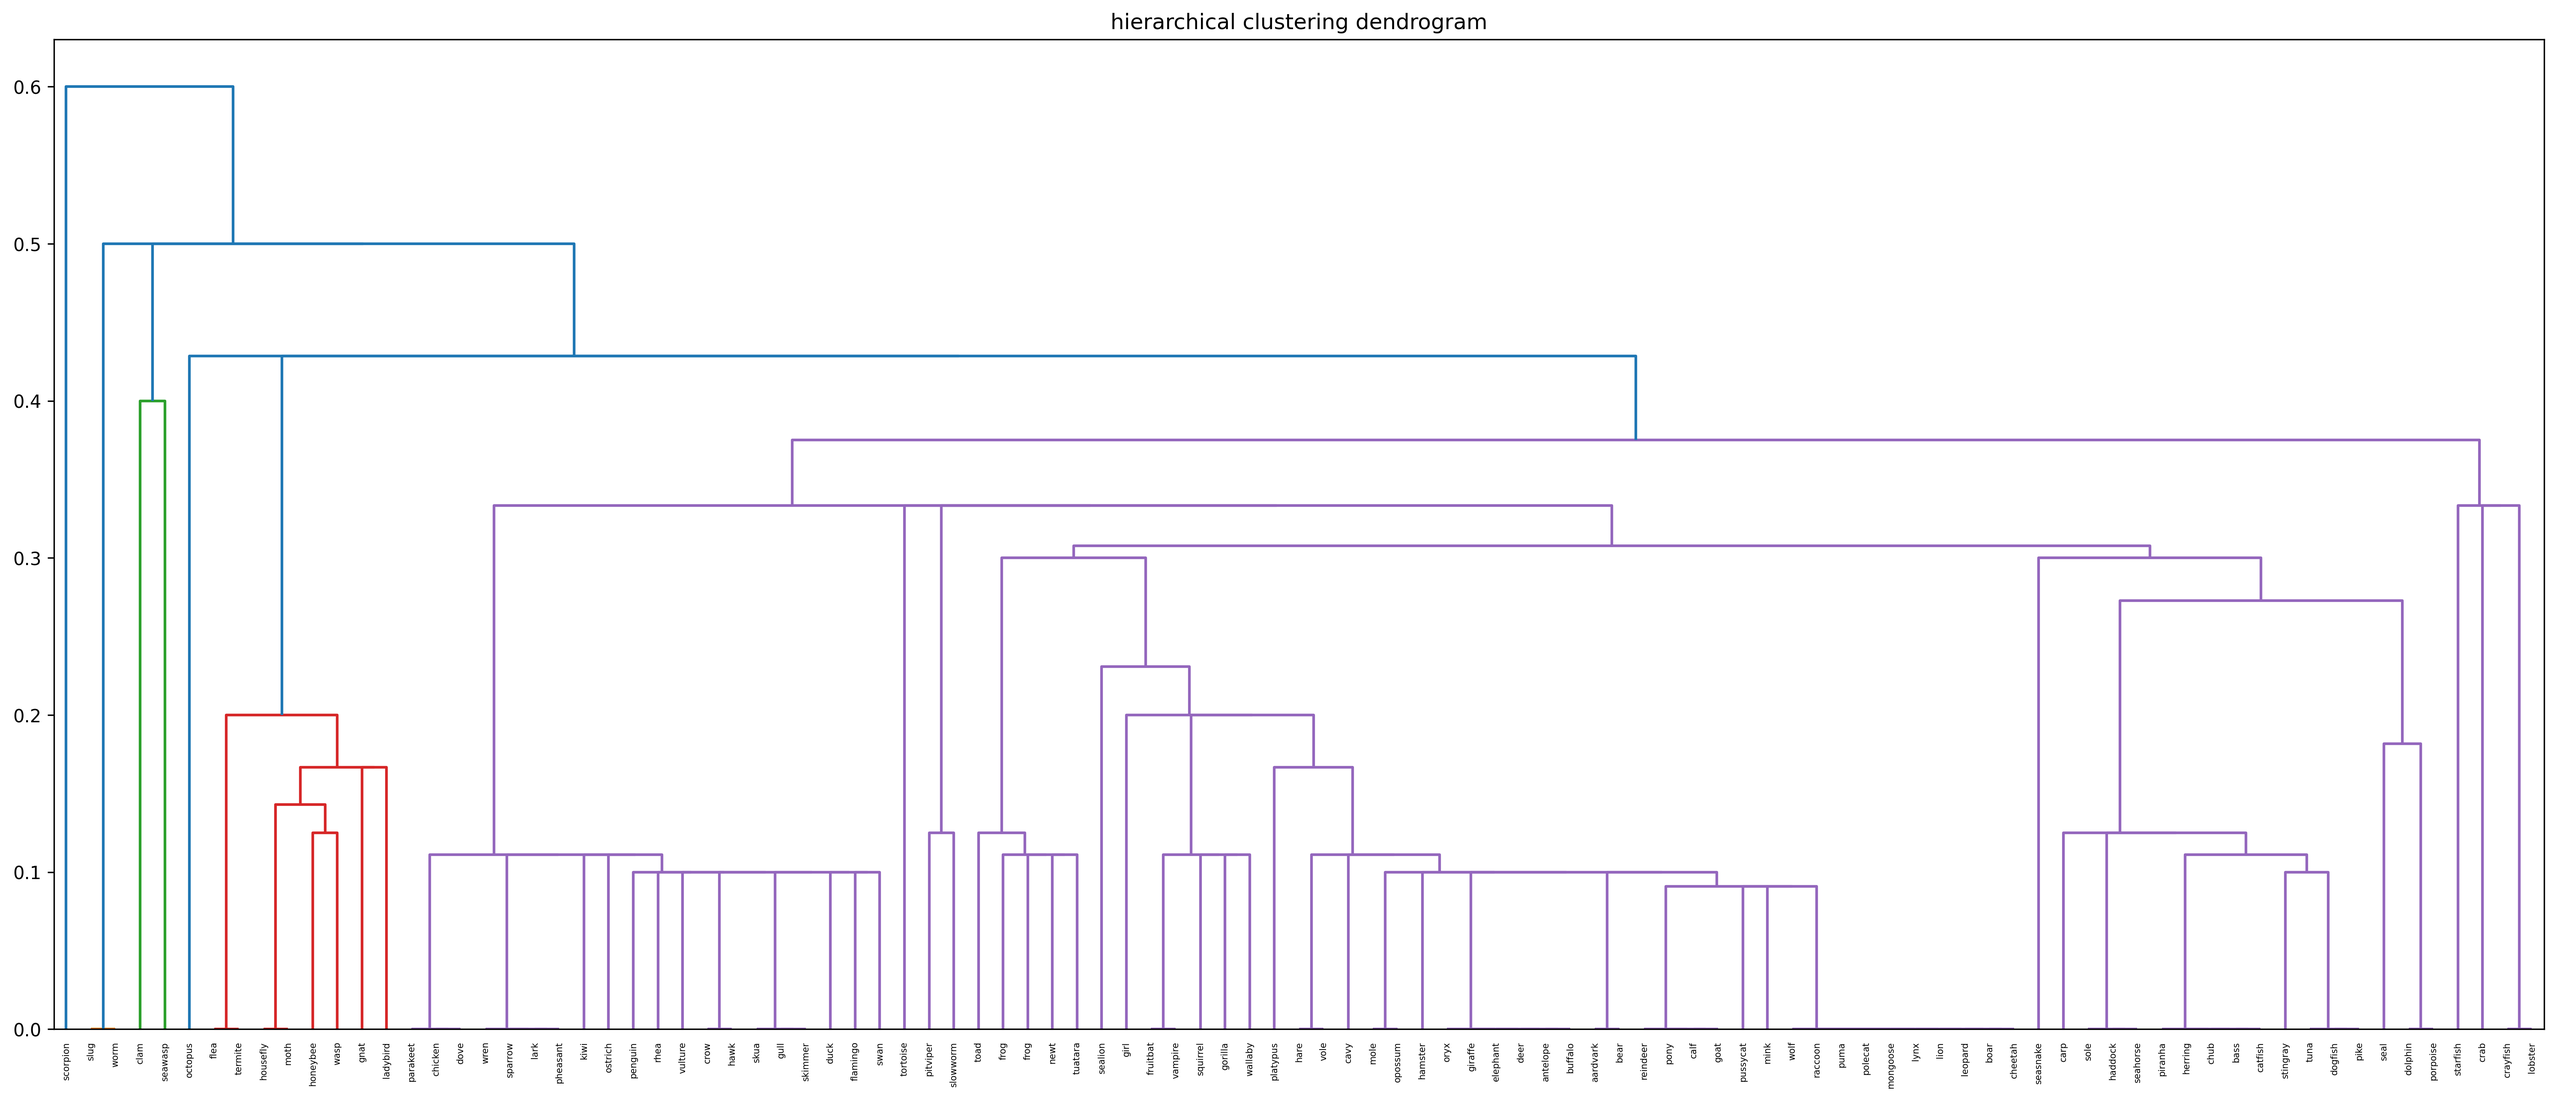
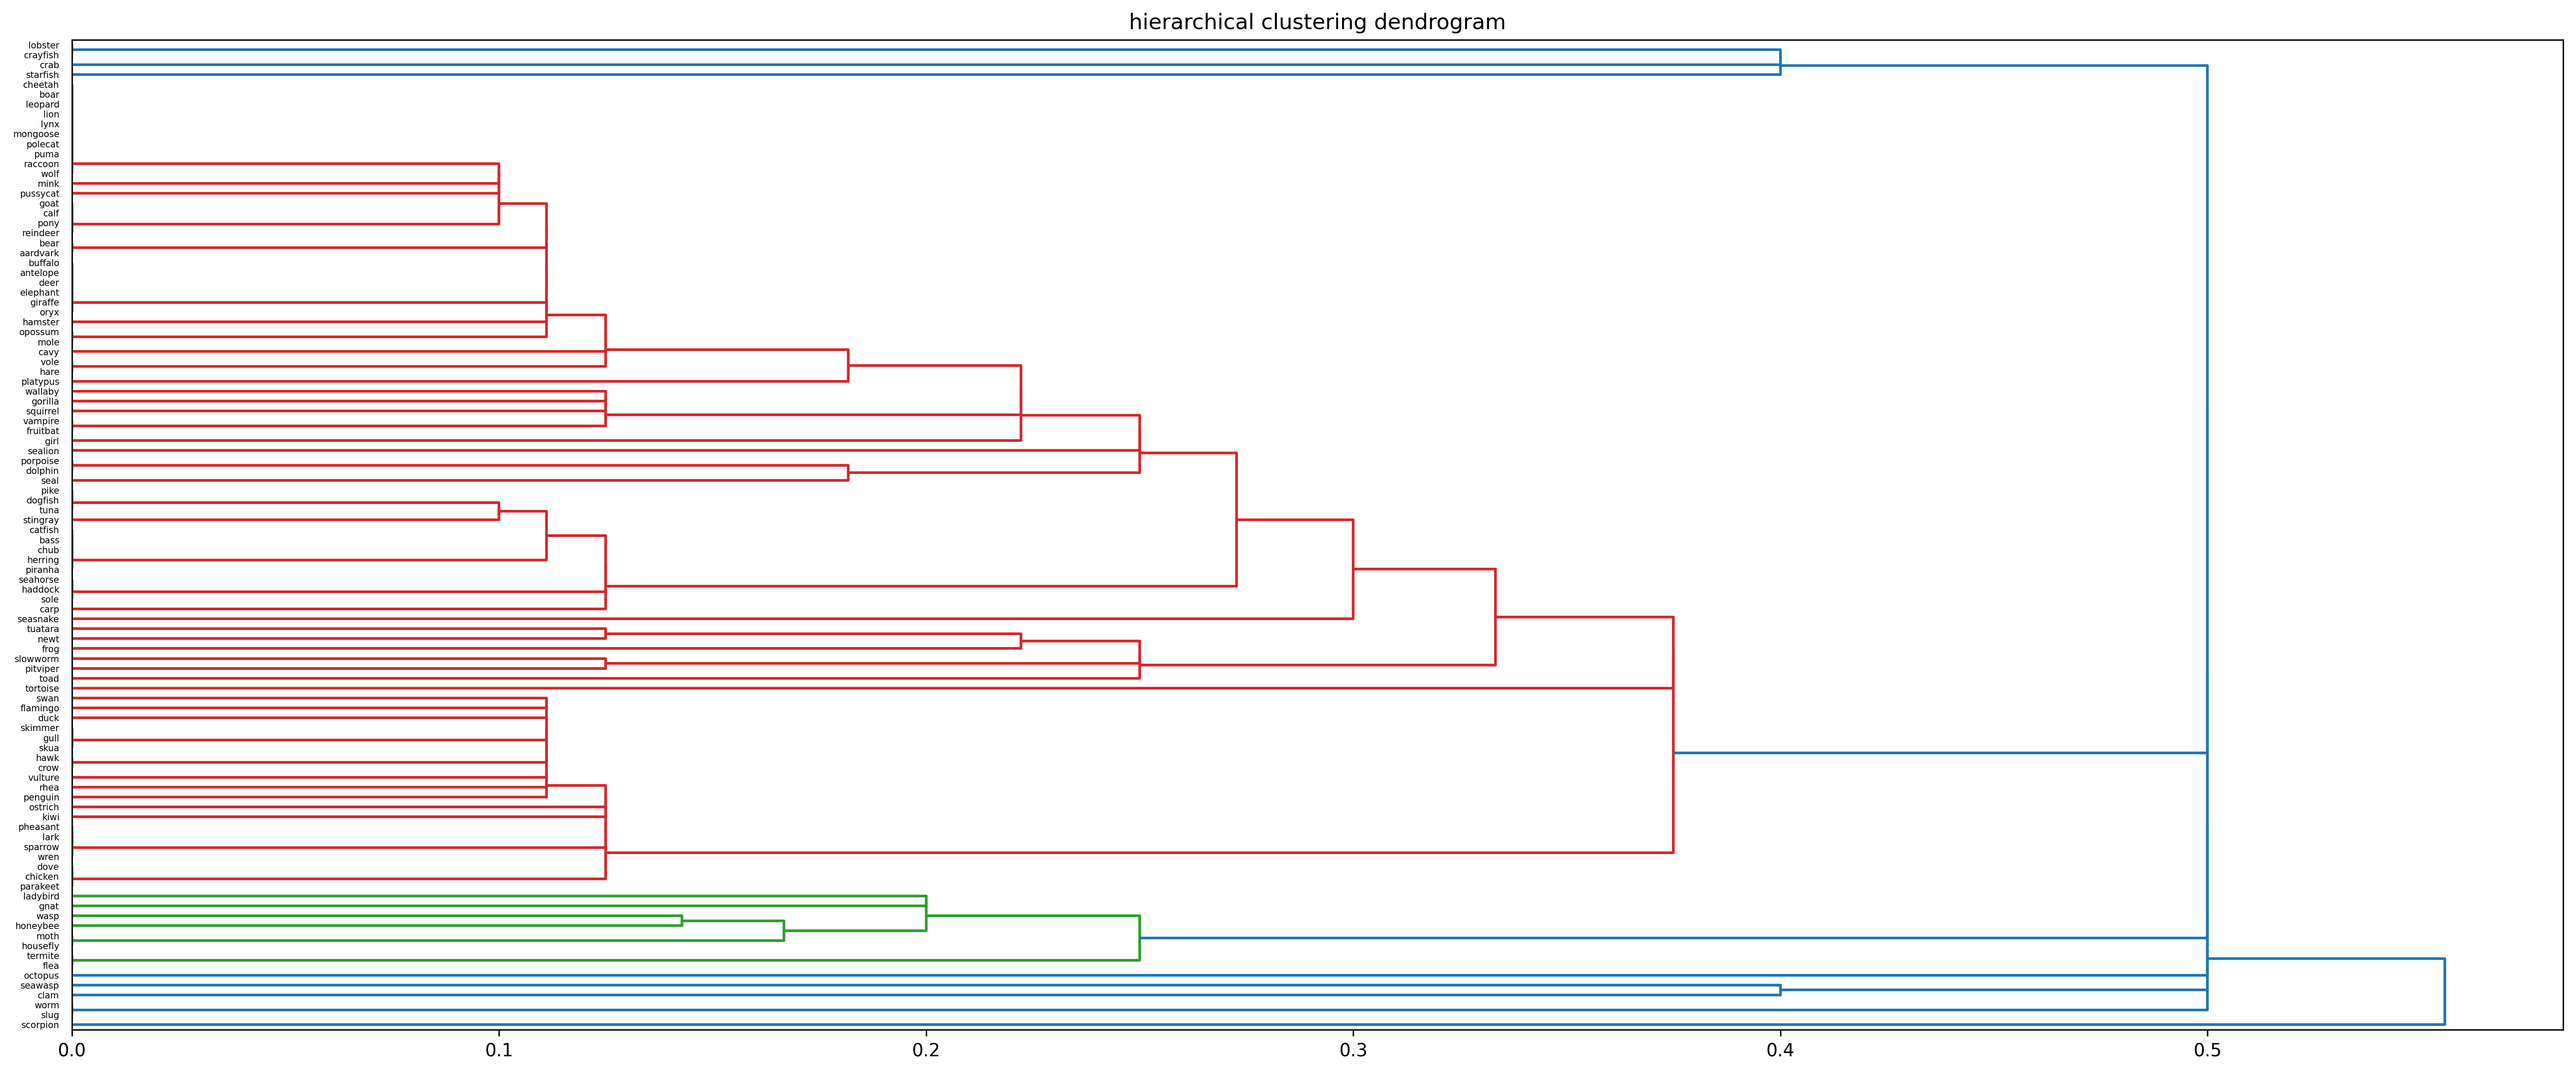
update dendrogram.py to clean dataset

diff --git a/dendrogram/dendrogram.py b/dendrogram/dendrogram.py
@@ -5,7 +5,8 @@ from scipy.spatial.distance import pdist
 from matplotlib import pyplot as plt
 
 np.set_printoptions(precision=5, suppress=True)  # suppress scientific float notation
-pd.set_option("display.max_columns", 20)
+pd.set_option("display.max_columns", 200)
+pd.set_option("display.max_rows", 200)
 
 from ucimlrepo import fetch_ucirepo 
 
@@ -16,23 +17,36 @@ zoo = fetch_ucirepo(id=111)
 # data (as pandas dataframes) 
 X = zoo.data.features 
 y = zoo.data.targets 
+animal_names = zoo.data.ids
+
+
+# remove the accursed frog
+# get index of first match of frog
+dupe_index = (animal_names['animal_name'] == 'frog').idxmax()
+print(dupe_index)
+
+animal_names.drop(dupe_index, inplace=True)
+X.drop(dupe_index, inplace=True)
+
 
 legs_oh = pd.get_dummies(X['legs']).astype(int)
 
 legs_oh = legs_oh.add_prefix("legs_")
-print(legs_oh)
+# print(legs_oh)
 
-X.drop(columns=['legs'])
+
+X = X.drop(columns=['legs'])
 X = pd.concat([X, legs_oh], axis=1)
-print(X)
+
+
+# print(X)
+# print(animal_names)
 
 Z = linkage(pdist(X, 'jaccard'))
 
 plt.figure(figsize=(25,10))
 plt.title("hierarchical clustering dendrogram")
 
-# print(zoo.data.ids)
-
-dendrogram(Z, labels=zoo.data.ids['animal_name'].tolist())
+dendrogram(Z, labels=animal_names['animal_name'].tolist(), orientation='right')
 plt.savefig("output_dendro_hires.png", dpi=300, bbox_inches='tight')
 plt.show()
